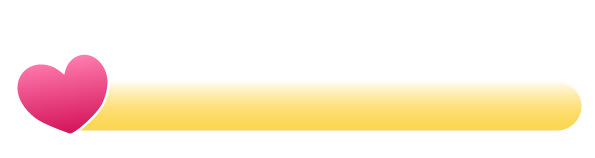
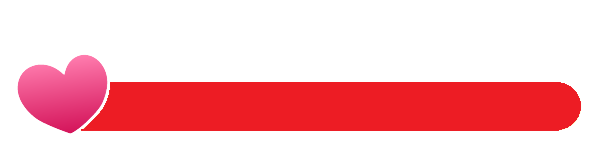
in progress

Changed region(s): [[0.0908, 0.5063, 0.9983, 0.8354], [0.0605, 0.4051, 0.0908, 0.4304]]

diff --git a/classes/status-bar.class.js b/classes/status-bar.class.js
@@ -1,20 +1,21 @@
 class StatusBar extends DrawableObject {
 
 
-    IMAGES = [
-        'img/7_statusbars/1_statusbar/2_statusbar_health/green/0.png',
-        'img/7_statusbars/1_statusbar/2_statusbar_health/green/20.png',
-        'img/7_statusbars/1_statusbar/2_statusbar_health/green/40.png',
-        'img/7_statusbars/1_statusbar/2_statusbar_health/green/60.png',
-        'img/7_statusbars/1_statusbar/2_statusbar_health/green/80.png',
+    IMAGES_Helth = [
+        'img/7_statusbars/1_statusbar/2_statusbar_health/orange/0.png',
+        'img/7_statusbars/1_statusbar/2_statusbar_health/orange/20.png',
+        'img/7_statusbars/1_statusbar/2_statusbar_health/orange/40.png',
+        'img/7_statusbars/1_statusbar/2_statusbar_health/blue/60.png',
+        'img/7_statusbars/1_statusbar/2_statusbar_health/blue/80.png',
         'img/7_statusbars/1_statusbar/2_statusbar_health/green/100.png'
     ];
+
 
     percentage = 100;
 
     constructor() {
         super();
-        this.loadImages(this.IMAGES);
+        this.loadImages(this.IMAGES_Helth);
         this.x = 0;
         this.y = 0;
         this.height = 50;
@@ -24,9 +25,8 @@ class StatusBar extends DrawableObject {
 
     setPercentage(percentage) {
         this.percentage = percentage;
-        let path = this.IMAGES[this.resolveImageIndex()];
+        let path = this.IMAGES_Helth[this.resolveImageIndex()];
         this.img = this.imageCache[path];
-
     }
 
 

diff --git a/classes/status-bottles.class.js b/classes/status-bottles.class.js
@@ -1,0 +1,47 @@
+class StautusBottles extends DrawableObject {
+
+    IMAGES_Bottle = [
+        'img/7_statusbars/1_statusbar/3_statusbar_bottle/blue/0.png',
+        'img/7_statusbars/1_statusbar/3_statusbar_bottle/blue/20.png',
+        'img/7_statusbars/1_statusbar/3_statusbar_bottle/blue/40.png',
+        'img/7_statusbars/1_statusbar/3_statusbar_bottle/blue/60.png',
+        'img/7_statusbars/1_statusbar/3_statusbar_bottle/blue/80.png',
+        'img/7_statusbars/1_statusbar/3_statusbar_bottle/blue/100.png',
+    ];
+
+
+    bottles = 0;
+
+    constructor(){
+        super();
+        this.loadImages(this.IMAGES_Bottle);
+        this.x = 0;
+        this.y = 50;
+        this.height = 50;
+        this.includeBottles(0);
+
+    }
+
+    includesBottles(bottles) {
+        this.bottles = bottles;
+        let path = this.IMAGES_Bottle[this.resolveImageIndexBottles()];
+        this.img = this.imageCache[path];
+    }
+
+    resolveImageIndexBottles() {
+        if (this.bottles == 0) {
+            return 0;
+        } else if (this.bottles > 20) {
+            return 1;
+        } else if (this.bottles > 40) {
+            return 2;
+        } else if (this.bottles > 60) {
+            return 3;
+        } else if (this.bottles > 80) {
+            return 4;
+        } else {
+            return 5;
+        }
+    }
+
+}

diff --git a/classes/status-coin.class.js b/classes/status-coin.class.js
@@ -1,0 +1,44 @@
+class StatusCoin extends DrawableObject {
+
+    IMAGES_Coin = [
+        'img/7_statusbars/1_statusbar/1_statusbar_coin/green/0.png',
+        'img/7_statusbars/1_statusbar/1_statusbar_coin/green/20.png',
+        'img/7_statusbars/1_statusbar/1_statusbar_coin/green/40.png',
+        'img/7_statusbars/1_statusbar/1_statusbar_coin/green/60.png',
+        'img/7_statusbars/1_statusbar/1_statusbar_coin/green/80.png',
+        'img/7_statusbars/1_statusbar/1_statusbar_coin/green/100.png'
+    ];
+
+    coin = 1;
+
+    constructor(){
+        super();
+        this.loadImages(this.IMAGES_Coin);
+        this.x = 0;
+        this.y = 100;
+        this.height = 50;
+        this.setincludesCoin(0);
+    }
+
+    setincludesCoin(coin) {
+        this.coin = coin;
+        let path = this.IMAGES_Coin[this.resolveImageIndexCoin()];
+        this.img = this.imageCache[path];
+    }
+    resolveImageIndexCoin() {
+        if (this.coin == 0) {
+            return 0;
+        } else if (this.coin > 20) {
+            return 1;
+        } else if (this.coin > 40) {
+            return 2;
+        } else if (this.coin > 60) {
+            return 3;
+        } else if (this.coin > 80) {
+            return 4;
+        } else {
+            return 5;
+        }
+    }
+
+}

diff --git a/classes/world.class.js b/classes/world.class.js
@@ -7,6 +7,8 @@ class World {
     keyboard;
     camera_x = 0;
     statusBar = new StatusBar();
+    statusBottles = new StautusBottles();
+    statusCoin = new StatusCoin();
     throwableObject = [];
 
     constructor(canvas, keyboard) {
@@ -24,7 +26,6 @@ class World {
 
     run() {
         setInterval(() => {
-
             this.checkCollision();
             this.checkThroObjects();
         }, 200);
@@ -55,6 +56,8 @@ class World {
 
         this.ctx.translate(-this.camera_x, 0);
         this.addToMap(this.statusBar);
+        this.addToMap(this.statusBottles);
+        this.addToMap(this.statusCoin);
         this.ctx.translate(this.camera_x, 0);
 
         this.addToMap(this.character);

diff --git a/classes/drawable-object.class.js b/classes/drawable-object.class.js
@@ -16,10 +16,15 @@ class DrawableObject {
 
 
     draw(ctx) {
-        ctx.drawImage(this.img, this.x, this.y, this.width, this.height);
+        try {
+            ctx.drawImage(this.img, this.x, this.y, this.width, this.height);
+        } catch (e) {
+            console.warn('Error loading image', e);
+            console.log('Could not load,', this.img.src);
+        }
     }
 
-    
+
     drawFrame(ctx) {
         if (this instanceof Character || this instanceof Chicken || this instanceof Chicken_smal || this instanceof Endboss) {
             ctx.beginPath();

diff --git a/index.html b/index.html
@@ -17,6 +17,8 @@
     <script src="./classes/cloud.class.js"></script>
     <script src="./classes/cloud_different.class.js"></script>
     <script src="./classes/status-bar.class.js"></script>
+    <script src="./classes/status-bottles.class.js"></script>
+    <script src="./classes/status-coin.class.js"></script>
     <script src="./classes/world.class.js"></script>
     <script src="./classes/background-object.class.js"></script>
     <script src="./classes/keyboard.class.js"></script>
